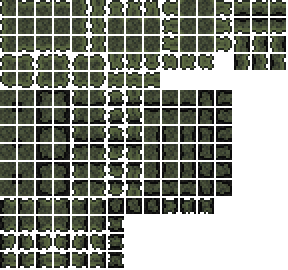
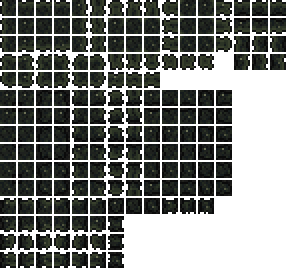
sands

diff --git a/Content/Walls/HardenedPitsandWall_Wall.cs b/Content/Walls/HardenedPitsandWall_Wall.cs
@@ -13,7 +13,7 @@ namespace Contagion.Content.Walls
 			DustType = ModContent.DustType<Particles.Dusts.PitsandDust>();
 			ItemDrop = ModContent.ItemType<Items.WallItems.PitsandstoneWall>();
 
-			AddMapEntry(new Color(44, 51, 42));
+			AddMapEntry(new Color(28, 23, 24));
 		}
 
 		public override void NumDust(int i, int j, bool fail, ref int num)

diff --git a/Content/Walls/PitsandstoneWall_Wall.cs b/Content/Walls/PitsandstoneWall_Wall.cs
@@ -13,7 +13,7 @@ namespace Contagion.Content.Walls
 			DustType = ModContent.DustType<Particles.Dusts.PitsandDust>();
 			ItemDrop = ModContent.ItemType<Items.WallItems.PitsandstoneWall>();
 
-			AddMapEntry(new Color(28, 33, 30));
+			AddMapEntry(new Color(30, 35, 34));
 		}
 
 		public override void NumDust(int i, int j, bool fail, ref int num)

diff --git a/Content/Tiles/HardenedPitsand_Tile.cs b/Content/Tiles/HardenedPitsand_Tile.cs
@@ -21,7 +21,7 @@ namespace Contagion.Content.Tiles
             DustType = ModContent.DustType<Particles.Dusts.PitsandDust>();
             SoundType = SoundID.Dig;
             ItemDrop = ModContent.ItemType<HardenedPitsand>();
-            AddMapEntry(new Color(81, 93, 60));
+            AddMapEntry(new Color(34, 40, 31));
         }
     }
 }

diff --git a/Content/Tiles/Pitsandstone_Tile.cs b/Content/Tiles/Pitsandstone_Tile.cs
@@ -21,7 +21,7 @@ namespace Contagion.Content.Tiles
             DustType = ModContent.DustType<Particles.Dusts.PitsandDust>();
             SoundType = SoundID.Dig;
             ItemDrop = ModContent.ItemType<Pitsandstone>();
-            AddMapEntry(new Color(41, 51, 43));
+            AddMapEntry(new Color(50, 62, 55));
         }
     }
 }
